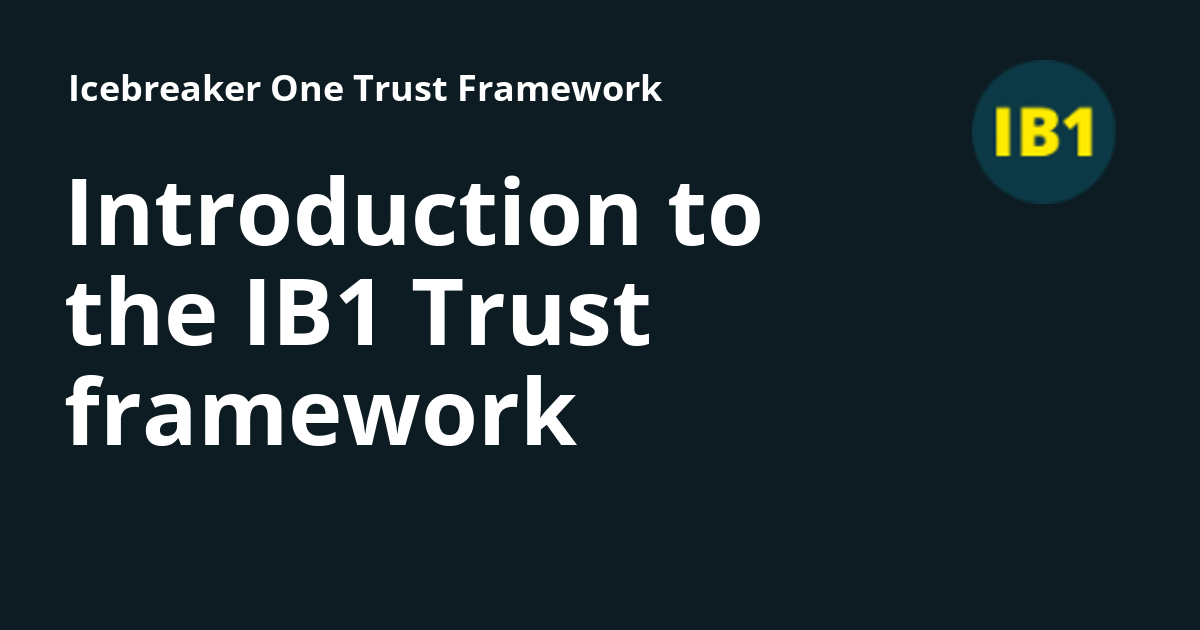
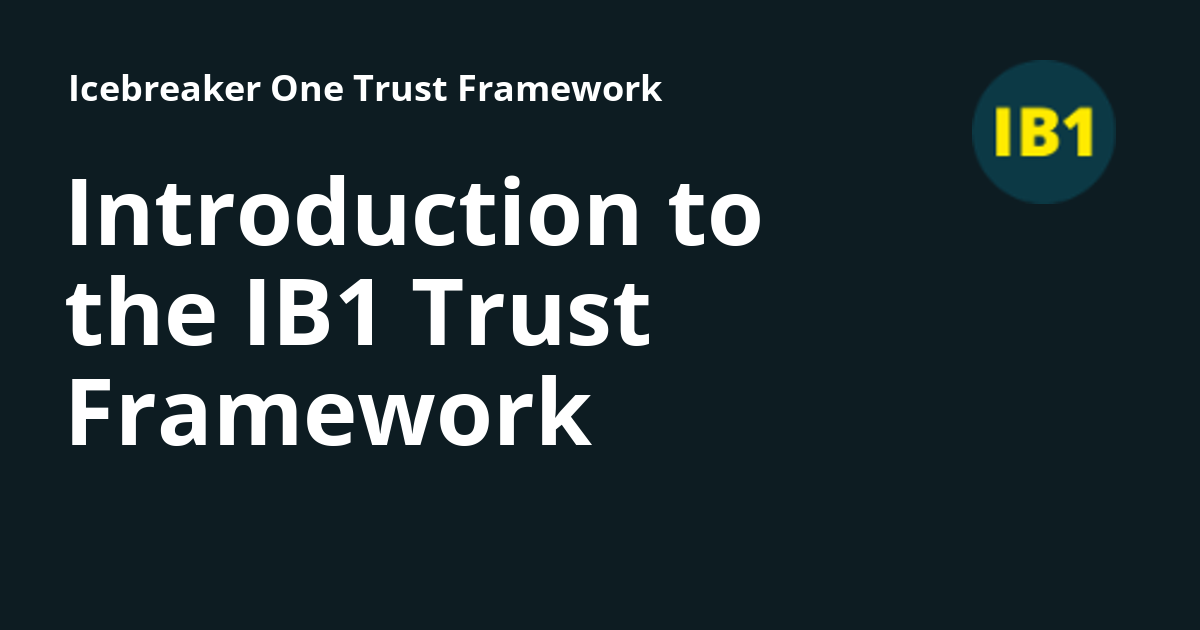
Deployed d41f1a4 to 0.1 with MkDocs 1.4.2 and mike 1.2.0.dev0

Changed region(s): [[0.0308, 0.573, 0.4933, 0.7238]]

diff --git a/0.1/ops_guidelines/introduction/index.html b/0.1/ops_guidelines/introduction/index.html
@@ -19,7 +19,7 @@
     
     
       
-        <title>Introduction to the IB1 Trust framework - Icebreaker One Trust Framework Documentation</title>
+        <title>Introduction to the IB1 Trust Framework - Icebreaker One Trust Framework Documentation</title>
       
     
     
@@ -53,7 +53,7 @@
       
         <meta  property="og:type"  content="website" >
       
-        <meta  property="og:title"  content="Introduction to the IB1 Trust framework - Icebreaker One Trust Framework Documentation" >
+        <meta  property="og:title"  content="Introduction to the IB1 Trust Framework - Icebreaker One Trust Framework Documentation" >
       
         <meta  property="og:description"  content="None" >
       
@@ -69,7 +69,7 @@
       
         <meta  name="twitter:card"  content="summary_large_image" >
       
-        <meta  name="twitter:title"  content="Introduction to the IB1 Trust framework - Icebreaker One Trust Framework Documentation" >
+        <meta  name="twitter:title"  content="Introduction to the IB1 Trust Framework - Icebreaker One Trust Framework Documentation" >
       
         <meta  name="twitter:description"  content="None" >
       
@@ -149,7 +149,7 @@
         <div class="md-header__topic" data-md-component="header-topic">
           <span class="md-ellipsis">
             
-              Introduction to the IB1 Trust framework
+              Introduction to the IB1 Trust Framework
             
           </span>
         </div>
@@ -261,12 +261,12 @@
       
       
         <label class="md-nav__link md-nav__link--active" for="__toc">
-          Introduction to the IB1 Trust framework
+          Introduction to the IB1 Trust Framework
           <span class="md-nav__icon md-icon"></span>
         </label>
       
       <a href="./" class="md-nav__link md-nav__link--active">
-        Introduction to the IB1 Trust framework
+        Introduction to the IB1 Trust Framework
       </a>
       
         

diff --git a/0.1/index.html b/0.1/index.html
@@ -250,7 +250,7 @@
   
     <li class="md-nav__item">
       <a href="ops_guidelines/introduction/" class="md-nav__link">
-        Introduction to the IB1 Trust framework
+        Introduction to the IB1 Trust Framework
       </a>
     </li>
   
@@ -458,7 +458,7 @@
 
 
 <h1 id="icebreaker-one-trust-framework-technical-documentation">Icebreaker One Trust Framework Technical Documentation</h1>
-<p>Technical documentation for the <a href="https://icebreakerone.org">IcebreakerOne</a> (IB1) <a href="https://icebreakerone.org/ib1-trust-framework-for-data-sharing/">Trust Framework</a>.</p>
+<p>Technical documentation for the <a href="https://icebreakerone.org">Icebreaker One</a> (IB1) <a href="https://icebreakerone.org/ib1-trust-framework-for-data-sharing/">Trust Framework</a>.</p>
 <h2 id="contents">Contents</h2>
 <ul>
 <li>

diff --git a/0.1/404.html b/0.1/404.html
@@ -217,7 +217,7 @@
   
     <li class="md-nav__item">
       <a href="/0.1/ops_guidelines/introduction/" class="md-nav__link">
-        Introduction to the IB1 Trust framework
+        Introduction to the IB1 Trust Framework
       </a>
     </li>
   

diff --git a/0.1/access_control_specification/index.html b/0.1/access_control_specification/index.html
@@ -254,7 +254,7 @@
   
     <li class="md-nav__item">
       <a href="../ops_guidelines/introduction/" class="md-nav__link">
-        Introduction to the IB1 Trust framework
+        Introduction to the IB1 Trust Framework
       </a>
     </li>
   

diff --git a/0.1/additional_material/index.html b/0.1/additional_material/index.html
@@ -252,7 +252,7 @@
   
     <li class="md-nav__item">
       <a href="../ops_guidelines/introduction/" class="md-nav__link">
-        Introduction to the IB1 Trust framework
+        Introduction to the IB1 Trust Framework
       </a>
     </li>
   

diff --git a/0.1/architecture/index.html b/0.1/architecture/index.html
@@ -254,7 +254,7 @@
   
     <li class="md-nav__item">
       <a href="../ops_guidelines/introduction/" class="md-nav__link">
-        Introduction to the IB1 Trust framework
+        Introduction to the IB1 Trust Framework
       </a>
     </li>
   

diff --git a/0.1/glossary/index.html b/0.1/glossary/index.html
@@ -254,7 +254,7 @@
   
     <li class="md-nav__item">
       <a href="../ops_guidelines/introduction/" class="md-nav__link">
-        Introduction to the IB1 Trust framework
+        Introduction to the IB1 Trust Framework
       </a>
     </li>
   

diff --git a/0.1/metadata/index.html b/0.1/metadata/index.html
@@ -254,7 +254,7 @@
   
     <li class="md-nav__item">
       <a href="../ops_guidelines/introduction/" class="md-nav__link">
-        Introduction to the IB1 Trust framework
+        Introduction to the IB1 Trust Framework
       </a>
     </li>
   

diff --git a/0.1/ops_guidelines/before_starting/index.html b/0.1/ops_guidelines/before_starting/index.html
@@ -254,7 +254,7 @@
   
     <li class="md-nav__item">
       <a href="../introduction/" class="md-nav__link">
-        Introduction to the IB1 Trust framework
+        Introduction to the IB1 Trust Framework
       </a>
     </li>
   

diff --git a/0.1/ops_guidelines/common_policies/index.html b/0.1/ops_guidelines/common_policies/index.html
@@ -254,7 +254,7 @@
   
     <li class="md-nav__item">
       <a href="../introduction/" class="md-nav__link">
-        Introduction to the IB1 Trust framework
+        Introduction to the IB1 Trust Framework
       </a>
     </li>
   

diff --git a/0.1/ops_guidelines/data_consumer_ops_guidelines/index.html b/0.1/ops_guidelines/data_consumer_ops_guidelines/index.html
@@ -254,7 +254,7 @@
   
     <li class="md-nav__item">
       <a href="../introduction/" class="md-nav__link">
-        Introduction to the IB1 Trust framework
+        Introduction to the IB1 Trust Framework
       </a>
     </li>
   

diff --git a/0.1/ops_guidelines/data_provider_ops_guidelines/index.html b/0.1/ops_guidelines/data_provider_ops_guidelines/index.html
@@ -254,7 +254,7 @@
   
     <li class="md-nav__item">
       <a href="../introduction/" class="md-nav__link">
-        Introduction to the IB1 Trust framework
+        Introduction to the IB1 Trust Framework
       </a>
     </li>
   
